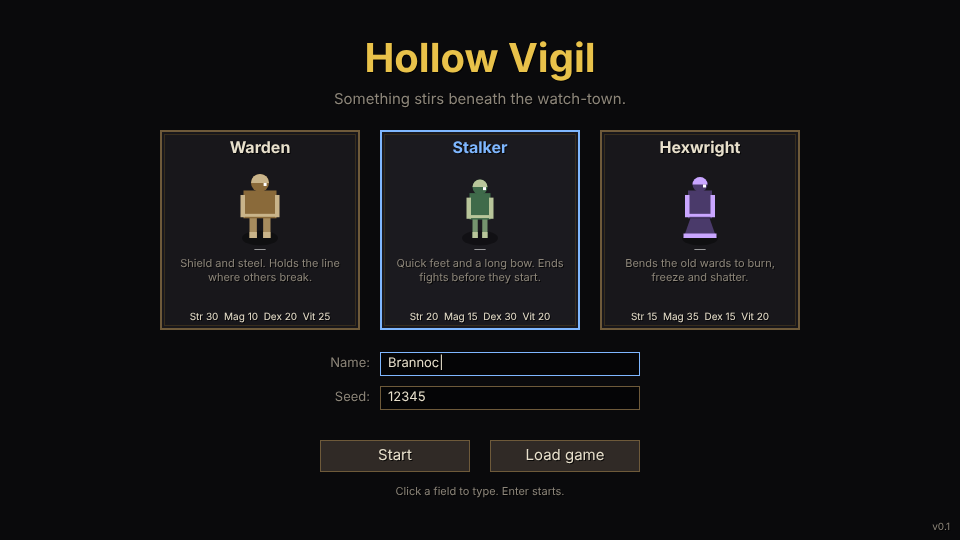
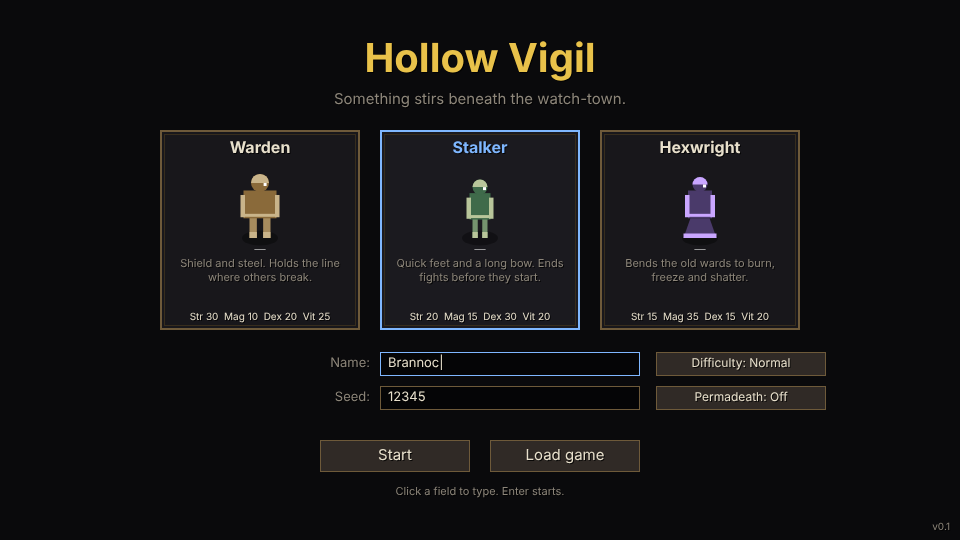
arpg-forge: real eval assertions; drop obsolete demo smoke test
Claude-Session: https://claude.ai/code/session_01E7ESYJbCAG9d7iGeqaYMSK

Changed region(s): [[0.6562, 0.6519, 0.875, 0.7704]]

diff --git a/.claude/skills/arpg-forge/evals/pirate-four-classes-permadeath/graders/02.md b/.claude/skills/arpg-forge/evals/pirate-four-classes-permadeath/graders/02.md
@@ -1,0 +1,7 @@
+---
+type: llm
+focus: output
+weight: 1
+---
+
+The new-game screen offers exactly 4 playable classes with pirate/age-of-sail names, and each class has a distinct starting skill or play style

diff --git a/.claude/skills/arpg-forge/evals/pirate-four-classes-permadeath/graders/05.md b/.claude/skills/arpg-forge/evals/pirate-four-classes-permadeath/graders/05.md
@@ -1,0 +1,7 @@
+---
+type: llm
+focus: output
+weight: 1
+---
+
+The game has a hub area with NPCs and a vendor, and a multi-tier dungeon whose areas fit the setting (e.g. sunken temples, cursed crews)

diff --git a/.claude/skills/arpg-forge/evals/cyberpunk-complete-game/graders/10.md b/.claude/skills/arpg-forge/evals/cyberpunk-complete-game/graders/10.md
@@ -1,0 +1,7 @@
+---
+type: llm
+focus: output
+weight: 1
+---
+
+No proper nouns from the reference game (e.g. Tristram, Diablo, Griswold, Lazarus, Horadric) appear in the game code or content

diff --git a/.claude/skills/arpg-forge/evals/pirate-four-classes-permadeath/graders/10.md b/.claude/skills/arpg-forge/evals/pirate-four-classes-permadeath/graders/10.md
@@ -1,0 +1,7 @@
+---
+type: llm
+focus: output
+weight: 1
+---
+
+No proper nouns from the reference game (e.g. Tristram, Diablo, Griswold, Lazarus, Horadric) appear in the game code or content

diff --git a/.claude/skills/arpg-forge/evals/cyberpunk-complete-game/graders/11.md b/.claude/skills/arpg-forge/evals/cyberpunk-complete-game/graders/11.md
@@ -1,0 +1,7 @@
+---
+type: llm
+focus: output
+weight: 1
+---
+
+The active content is fully re-themed: no class, monster, tier, NPC or item names from a fantasy placeholder theme remain

diff --git a/.claude/skills/arpg-forge/evals/pirate-four-classes-permadeath/graders/11.md b/.claude/skills/arpg-forge/evals/pirate-four-classes-permadeath/graders/11.md
@@ -1,0 +1,7 @@
+---
+type: llm
+focus: output
+weight: 1
+---
+
+The active content is fully re-themed: no class, monster, tier, NPC or item names from a fantasy placeholder theme remain

diff --git a/.claude/skills/arpg-forge/evals/cyberpunk-complete-game/graders/01.md b/.claude/skills/arpg-forge/evals/cyberpunk-complete-game/graders/01.md
@@ -1,0 +1,7 @@
+---
+type: llm
+focus: output
+weight: 1
+---
+
+neon_game/index.html boots in headless Chromium, draws a non-blank canvas, and raises no uncaught page errors

diff --git a/.claude/skills/arpg-forge/evals/pirate-four-classes-permadeath/graders/01.md b/.claude/skills/arpg-forge/evals/pirate-four-classes-permadeath/graders/01.md
@@ -1,0 +1,7 @@
+---
+type: llm
+focus: output
+weight: 1
+---
+
+saltbound/index.html boots in headless Chromium, draws a non-blank canvas, and raises no uncaught page errors

diff --git a/.claude/skills/arpg-forge/evals/cyberpunk-complete-game/graders/04.md b/.claude/skills/arpg-forge/evals/cyberpunk-complete-game/graders/04.md
@@ -1,0 +1,7 @@
+---
+type: llm
+focus: output
+weight: 1
+---
+
+The dungeon has at least 4 visually distinct tiers of procedurally generated levels with a final boss

diff --git a/.claude/skills/arpg-forge/evals/pirate-four-classes-permadeath/graders/04.md b/.claude/skills/arpg-forge/evals/pirate-four-classes-permadeath/graders/04.md
@@ -1,0 +1,7 @@
+---
+type: llm
+focus: output
+weight: 1
+---
+
+With permadeath on, dying ends the run for good (the save is deleted and the hero cannot respawn)

diff --git a/.claude/skills/arpg-forge/evals/cyberpunk-complete-game/graders/07.md b/.claude/skills/arpg-forge/evals/cyberpunk-complete-game/graders/07.md
@@ -1,0 +1,7 @@
+---
+type: llm
+focus: output
+weight: 1
+---
+
+The deliverable includes an automated headless play test that passes when the grader re-runs it

diff --git a/.claude/skills/arpg-forge/evals/pirate-four-classes-permadeath/graders/07.md b/.claude/skills/arpg-forge/evals/pirate-four-classes-permadeath/graders/07.md
@@ -1,0 +1,7 @@
+---
+type: llm
+focus: output
+weight: 1
+---
+
+The deliverable includes an automated headless play test that passes when the grader re-runs it
